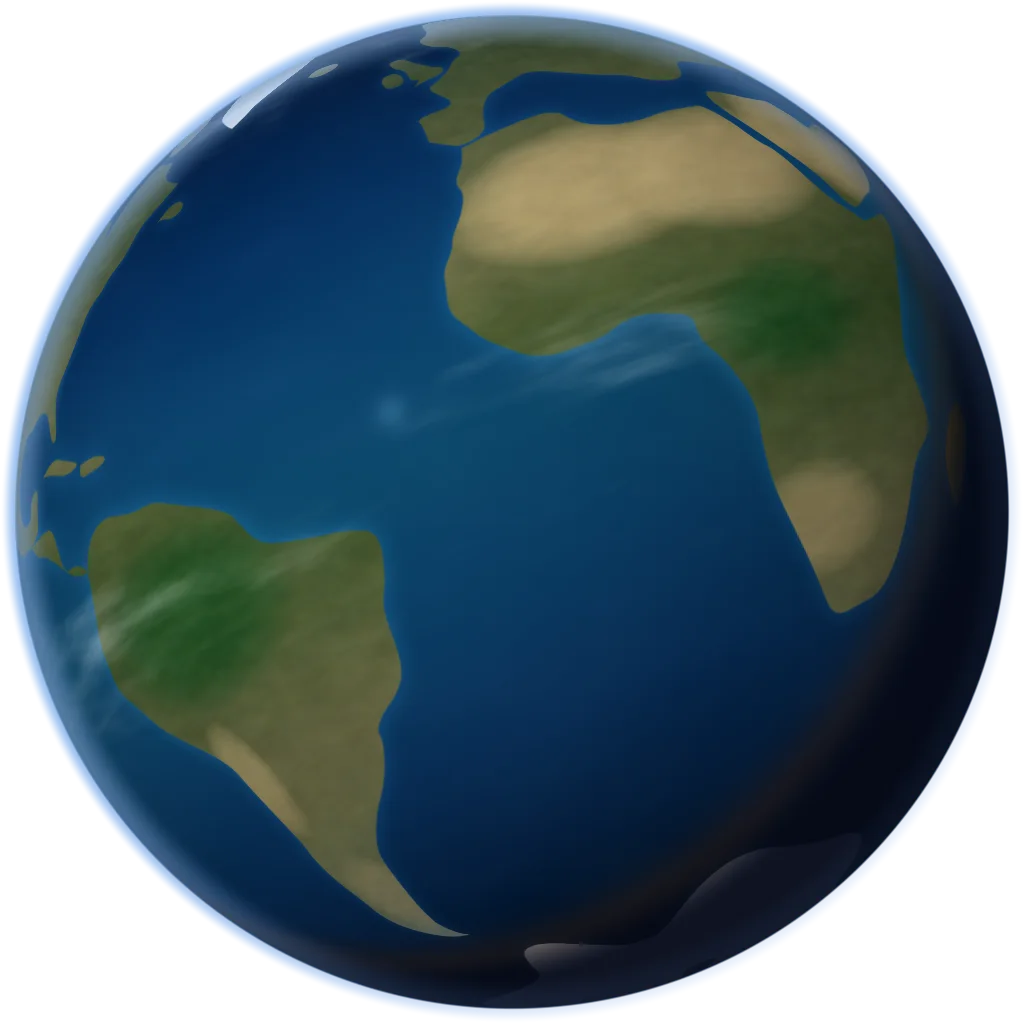
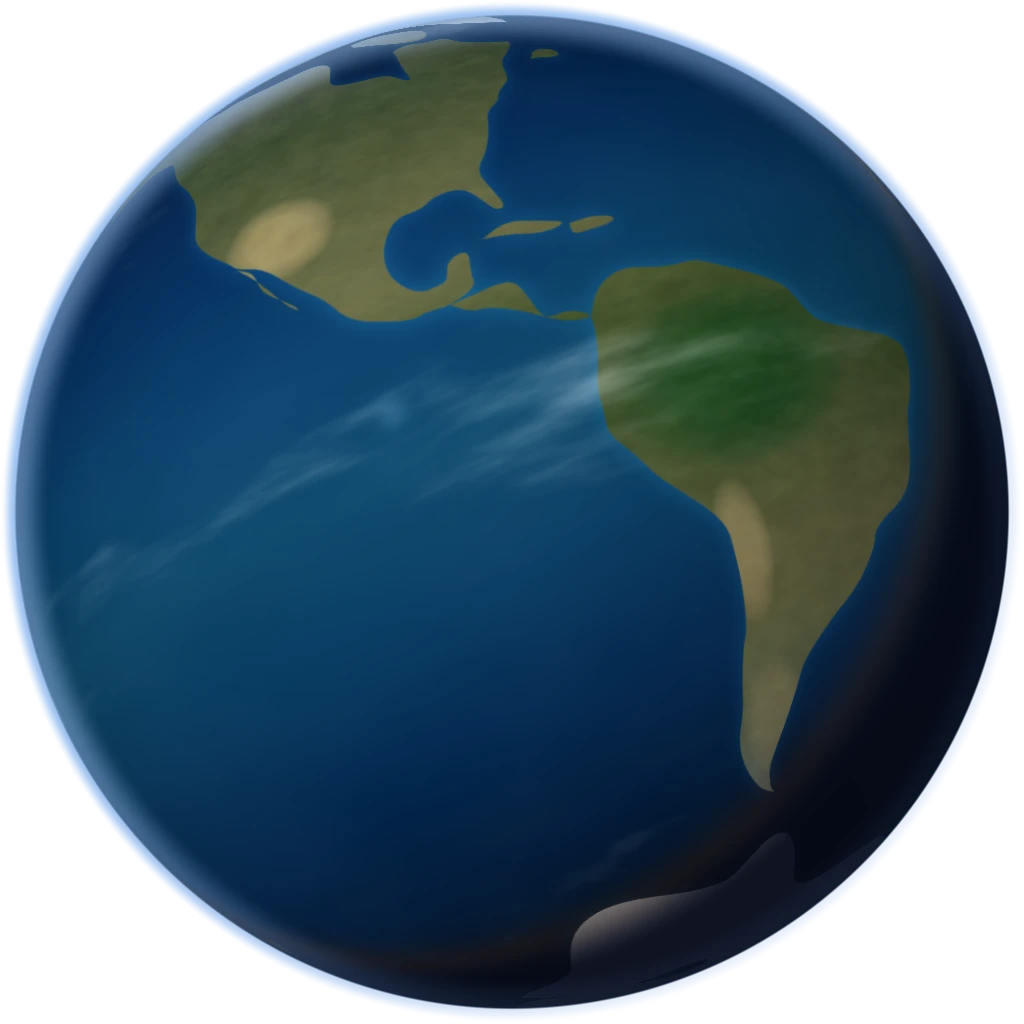
Handoff fixes: remove mono, NA globe, open slides, year toggle, join cards
3.1  Remove IBM Plex Mono entirely — repoint --font-mono to IBM Plex Sans and drop
     IBM+Plex+Mono from the Google Fonts link + head comment. Verified: zero elements
     resolve to a monospace font, zero mono faces loaded; every former label (eyebrows,
     kickers, badges, emails, countdown units) now renders in the sans.
3.2/3.3  Hero Earth now faces North America in the EXACT original painterly style —
     re-baked from the same earth-lab renderer (identical roll 23.4 / pitch -10 /
     lighting), only meridian rotated -20 -> -95. North America (US, Gulf, Florida,
     Mexico, Central America) is front-and-centre and clearly lit under the astronaut.
     Lightened the .home__earth::before overlay (the webp already bakes the terminator,
     so the old overlay double-shaded NA into the dark) and nudged the brightness filter.
3.4  Slide decks OPEN in Google Slides (…/present) instead of downloading the PDF
     export; modal deck button relabelled 'Open slide deck ↗'. Arc boxes + modal both
     use the SLIDES() helper, both target=_blank (no warp/lightspeed transition).
3.7  About season toggle — a compact segmented control (square-ish, not a pill):
     '25–'26 shows the 13-meeting arc; '26–'27 swaps in a placeholder and updates the
     heading. Verified both directions.
3.16 Join support cards use align-items:start (natural height) so the Next-meeting
     card no longer grows dead space next to the taller Reach-us card.

diff --git a/styles.css b/styles.css
@@ -72,7 +72,12 @@
 
   --font-display: "Bricolage Grotesque", "Helvetica Neue", "Segoe UI", system-ui, Arial, sans-serif;
   --font-sans:  "IBM Plex Sans", "Segoe UI", system-ui, "Helvetica Neue", Arial, sans-serif;
-  --font-mono:  "IBM Plex Mono", ui-monospace, "SFMono-Regular", Menlo, Consolas, monospace;
+  /* No monospace anywhere on the site (Abir: remove the "AI-generated looking" mono
+     completely). --font-mono is kept as a token name only so the ~40 label rules that
+     reference it need no churn — it now resolves to the body sans. Every former mono
+     label (eyebrows, kickers, badges, emails, countdown units, ticker) renders in
+     IBM Plex Sans, still bold + uppercase + tracked, just not monospaced. */
+  --font-mono:  "IBM Plex Sans", system-ui, -apple-system, "Segoe UI", Roboto, sans-serif;
 
   --wrap: 1320px;
   --gutter: clamp(1.15rem, 4.2vw, 3rem);
@@ -709,16 +714,19 @@ body.intro .nav{ animation: heroNav .5s 1.5s var(--ease-out) both; }
   /* Nudge the baked marble toward the photographic sky: a touch more contrast and
      a hair less brightness so the matte "illustration" flatness reads as a lit
      sphere against the deep field. */
-  filter:contrast(1.06) saturate(1.04) brightness(.97); }
+  filter:contrast(1.05) saturate(1.06) brightness(1.05); }
 /* Atmospheric limb + day/night shading, drawn as CSS over the webp so the globe
    blends into the starfield instead of sitting on top of it as a flat cut-out.
    ::before = terminator shadow + limb darkening (the sphere's own shading);
    ::after  = a crisp blue atmosphere rim hugging the lit limb. Both are masked to
    the circle by border-radius + the contain sizing of the parent square. */
+/* The webp already BAKES the day/night terminator + limb darkening (same renderer,
+   sun upper-left). So this overlay is now just a gentle edge-darkening to seat the
+   sphere against the sky — much lighter than before (which double-shaded North
+   America into the dark). No hard terminator line here anymore. */
 .home__earth::before{ content:""; position:absolute; inset:0; border-radius:50%; pointer-events:none;
   background:
-    radial-gradient(circle at 34% 30%, transparent 44%, rgba(2,6,20,.16) 66%, rgba(1,3,12,.5) 84%, rgba(0,1,6,.72) 100%),
-    linear-gradient(118deg, transparent 40%, rgba(1,4,14,.28) 72%, rgba(0,1,7,.62) 100%);
+    radial-gradient(circle at 40% 34%, transparent 62%, rgba(2,6,20,.08) 80%, rgba(1,3,12,.26) 93%, rgba(0,1,6,.42) 100%);
   mix-blend-mode:multiply; }
 .home__earth::after{ content:""; position:absolute; inset:0; border-radius:50%; pointer-events:none;
   background:radial-gradient(circle at 50% 50%, transparent 80%, rgba(150,196,255,.16) 88%, rgba(120,175,255,.34) 93%, rgba(94,150,240,.14) 97%, transparent 100%);
@@ -748,6 +756,15 @@ body.intro .nav{ animation: heroNav .5s 1.5s var(--ease-out) both; }
 /* Fraunces display, section-title weight (the big-display block below governs the
    final family/tracking; kept here so the rule stands on its own too). */
 .arc__title{ font-family:var(--font-display); font-weight:600; font-size:clamp(2.2rem,4vw,3rem); letter-spacing:-.015em; color:var(--ink); line-height:1.02; }
+/* Season switch — a compact segmented control (square-ish corners, NOT a pill).
+   '25–'26 shows the 13-meeting arc; '26–'27 shows the empty placeholder. */
+.arc__years{ align-self:center; display:inline-flex; background:var(--glass-flat); border:1px solid var(--line-2); border-radius:9px; overflow:hidden; flex:0 0 auto; }
+.arc__year{ appearance:none; border:0; background:transparent; color:var(--ink-soft); font-family:var(--font-sans); font-weight:600; font-size:.82rem; letter-spacing:.01em; padding:.52rem .9rem; cursor:pointer; transition:background .18s var(--ease), color .18s var(--ease); }
+.arc__year + .arc__year{ border-left:1px solid var(--line-2); }
+.arc__year:not(.is-active):hover{ color:var(--ink); background:rgba(255,255,255,.05); }
+.arc__year.is-active{ background:var(--accent); color:#04122e; }
+.arc__year:active{ transform:none; }
+.arc__empty{ margin:.4rem 0 1rem; padding:1.6rem 1.7rem; border:1px solid var(--line-2); border-radius:14px; background:var(--glass-flat); color:var(--ink-soft); font-size:1.05rem; line-height:1.55; max-width:60ch; }
 /* Horizontal scroller with a right-edge fade cue (no debug text) */
 .arc__scroller{ position:relative; }
 .arc__scroller::after{ content:""; position:absolute; top:0; right:0; bottom:1rem; width:72px; background:linear-gradient(90deg, rgba(1,3,10,0), var(--void)); pointer-events:none; z-index:2; }
@@ -1030,7 +1047,10 @@ body.intro .nav{ animation: heroNav .5s 1.5s var(--ease-out) both; }
 .signup__perks li::before{ content:""; position:absolute; left:0; top:.55em; width:7px; height:7px; border-radius:2px; background:var(--accent); }
 
 /* ---- TIER 2 — supporting cards ----------------------------------------- */
-.join__support{ display:grid; grid-template-columns:1.12fr .88fr; gap:clamp(1.25rem,2.5vw,1.8rem); align-items:stretch; }
+/* align-items:start so each support card is its natural height (like the FAQ "Ask
+   us" card). stretch forced them equal-height, which left dead space at the bottom
+   of the shorter Next-meeting card once Reach-us grew to three officers. */
+.join__support{ display:grid; grid-template-columns:1.12fr .88fr; gap:clamp(1.25rem,2.5vw,1.8rem); align-items:start; }
 /* Shared neutral (steel) surface. --glass reads as glass over the dark sky on
    desktop; the touch block swaps it for an opaque fill (no backdrop buffers). */
 .joincard{ display:flex; flex-direction:column; padding:clamp(1.5rem,2.4vw,1.9rem) clamp(1.4rem,2.2vw,1.7rem); border:1px solid var(--glass-brd); border-radius:16px; background:var(--glass); backdrop-filter:blur(var(--glass-blur)) saturate(1.4); -webkit-backdrop-filter:blur(var(--glass-blur)) saturate(1.4); box-shadow:var(--glass-glow); }

diff --git a/index.html b/index.html
@@ -16,10 +16,10 @@
 <link rel="preconnect" href="https://fonts.gstatic.com" crossorigin />
 <!-- Type system, all Google-Fonts-served (no local files):
        Bricolage Grotesque — distinctive contemporary grotesque (opsz axis) → wordmark, titles, § marks, numerals
-       IBM Plex Sans       — technical humanist sans → body copy, nav, buttons, inputs
-       IBM Plex Mono       — technical mono → all-caps eyebrows, kickers, meta labels
+       IBM Plex Sans       — technical humanist sans → body copy, nav, buttons, inputs, AND all
+                             all-caps eyebrows/kickers/meta labels (no monospace anywhere on the site)
      A deliberate, non-default pairing (no Inter/Helvetica/Arial as a display face). -->
-<link href="https://fonts.googleapis.com/css2?family=Bricolage+Grotesque:opsz,wght@12..96,200..800&family=IBM+Plex+Sans:wght@400;500;600;700&family=IBM+Plex+Mono:wght@400;500;600;700&display=swap" rel="stylesheet" />
+<link href="https://fonts.googleapis.com/css2?family=Bricolage+Grotesque:opsz,wght@12..96,200..800&family=IBM+Plex+Sans:wght@400;500;600;700&display=swap" rel="stylesheet" />
 <link rel="stylesheet" href="styles.css" />
 </head>
 <body>
@@ -188,11 +188,16 @@
 
     <div class="arc reveal section-in">
       <div class="arc__head">
-        <h2 class="arc__title">The ’25–’26 Year</h2>
+        <h2 class="arc__title" id="arcTitle">The ’25–’26 Year</h2>
+        <div class="arc__years" role="tablist" aria-label="Choose a season">
+          <button type="button" class="arc__year is-active" data-year="25" role="tab" aria-selected="true">’25–’26</button>
+          <button type="button" class="arc__year" data-year="26" role="tab" aria-selected="false">’26–’27</button>
+        </div>
       </div>
-      <div class="arc__scroller">
+      <div class="arc__scroller" id="arcScroller">
         <div class="arc__track" id="arcTrack"></div>
       </div>
+      <p class="arc__empty" id="arcEmpty" hidden>The ’26–’27 season kicks off this fall. Meetings will show up here as we go.</p>
     </div>
 
     <div class="goals section-in">
@@ -577,8 +582,8 @@
         <span aria-hidden="true">↗</span>
       </a>
       <a class="modal__secondary" id="modalSecondary" href="#" target="_blank" rel="noopener">
-        <span>Download slide deck</span>
-        <span aria-hidden="true">↓</span>
+        <span>Open slide deck</span>
+        <span aria-hidden="true">↗</span>
       </a>
     </div>
   </div>

diff --git a/app.js b/app.js
@@ -13,7 +13,10 @@
   // canvas, NO canvas light-speed warp, NO full-page blur. Those were the
   // memory/GPU hogs that crashed mobile Safari.
   const COARSE = window.matchMedia("(any-pointer: coarse)").matches;
-  const SLIDES = (id) => `https://docs.google.com/presentation/d/${id}/export/pdf`;
+  // Open the deck in Google Slides (presentation view) in a new tab — NOT the PDF
+  // export, which forces a download. Used by the About "arc" boxes and the meeting
+  // modal's deck button; both are target="_blank" so no SPA/warp transition fires.
+  const SLIDES = (id) => `https://docs.google.com/presentation/d/${id}/present`;
 
   /* -------------------------------------------------------------------
      DATA (factual, extracted from decks & handouts)
@@ -499,6 +502,31 @@
       a.setAttribute("aria-label", `Meeting ${m.n}: ${m.short} — open the slide deck`);
       t.appendChild(a);
     });
+  }
+
+  /* Season switch on the About "arc": '25–'26 shows the 13-meeting scroller;
+     '26–'27 swaps in a short placeholder and updates the heading. */
+  function initArcYears() {
+    const btns = $$(".arc__year");
+    if (!btns.length) return;
+    const title = $("#arcTitle"), scroller = $("#arcScroller"), empty = $("#arcEmpty");
+    const COPY = {
+      "25": { title: "The ’25–’26 Year", empty: false },
+      "26": { title: "The ’26–’27 Year", empty: true },
+    };
+    const select = (btn) => {
+      const y = btn.dataset.year, c = COPY[y];
+      if (!c) return;
+      btns.forEach((x) => {
+        const on = x === btn;
+        x.classList.toggle("is-active", on);
+        x.setAttribute("aria-selected", on ? "true" : "false");
+      });
+      if (title) title.textContent = c.title;
+      if (scroller) scroller.hidden = c.empty;
+      if (empty) empty.hidden = !c.empty;
+    };
+    btns.forEach((b) => b.addEventListener("click", () => select(b)));
   }
 
   /* -------------------------------------------------------------------
@@ -1492,6 +1520,7 @@
       setTimeout(() => document.body.classList.remove("intro"), 2400);
     }
     renderArc();
+    initArcYears();
     renderMeetings();
     renderNotes();
     renderTeam();
